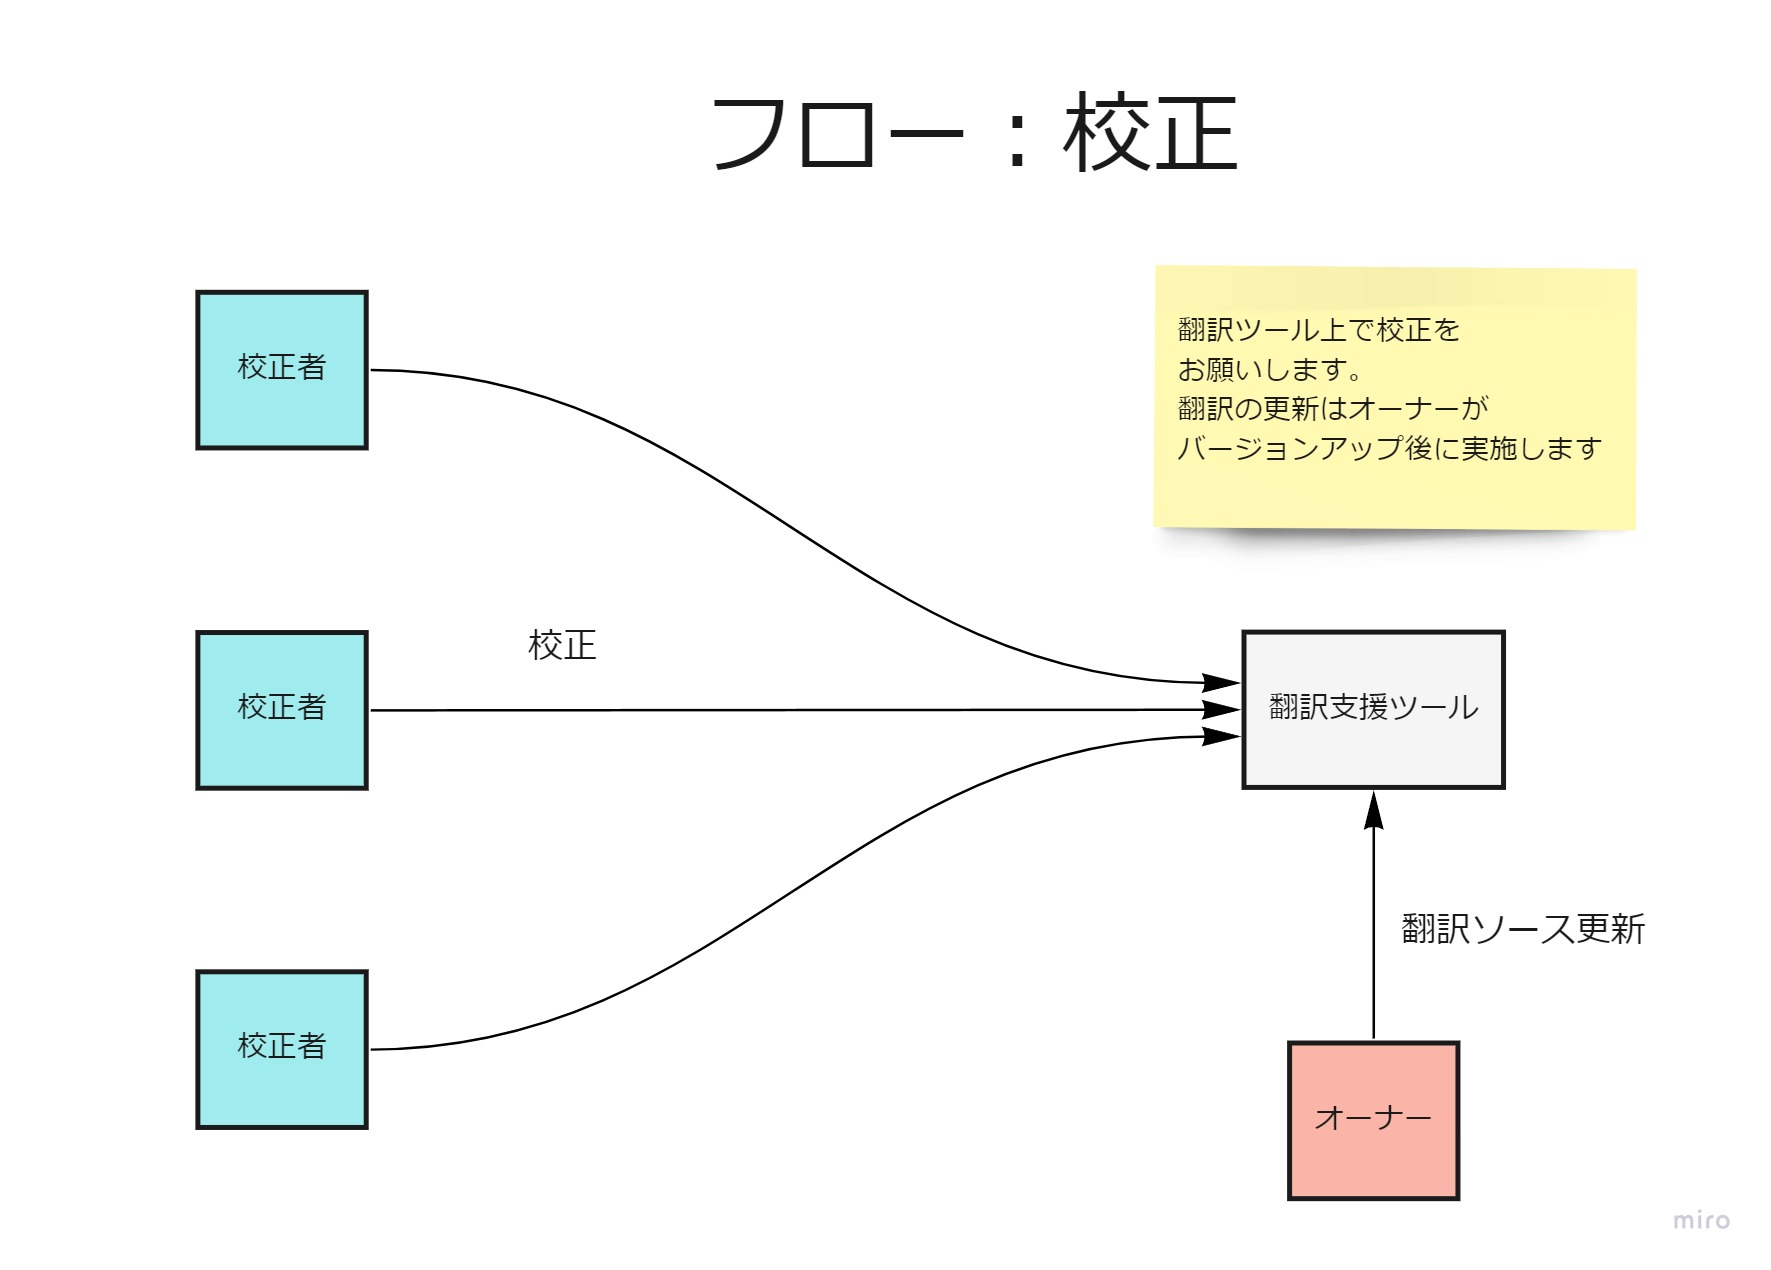
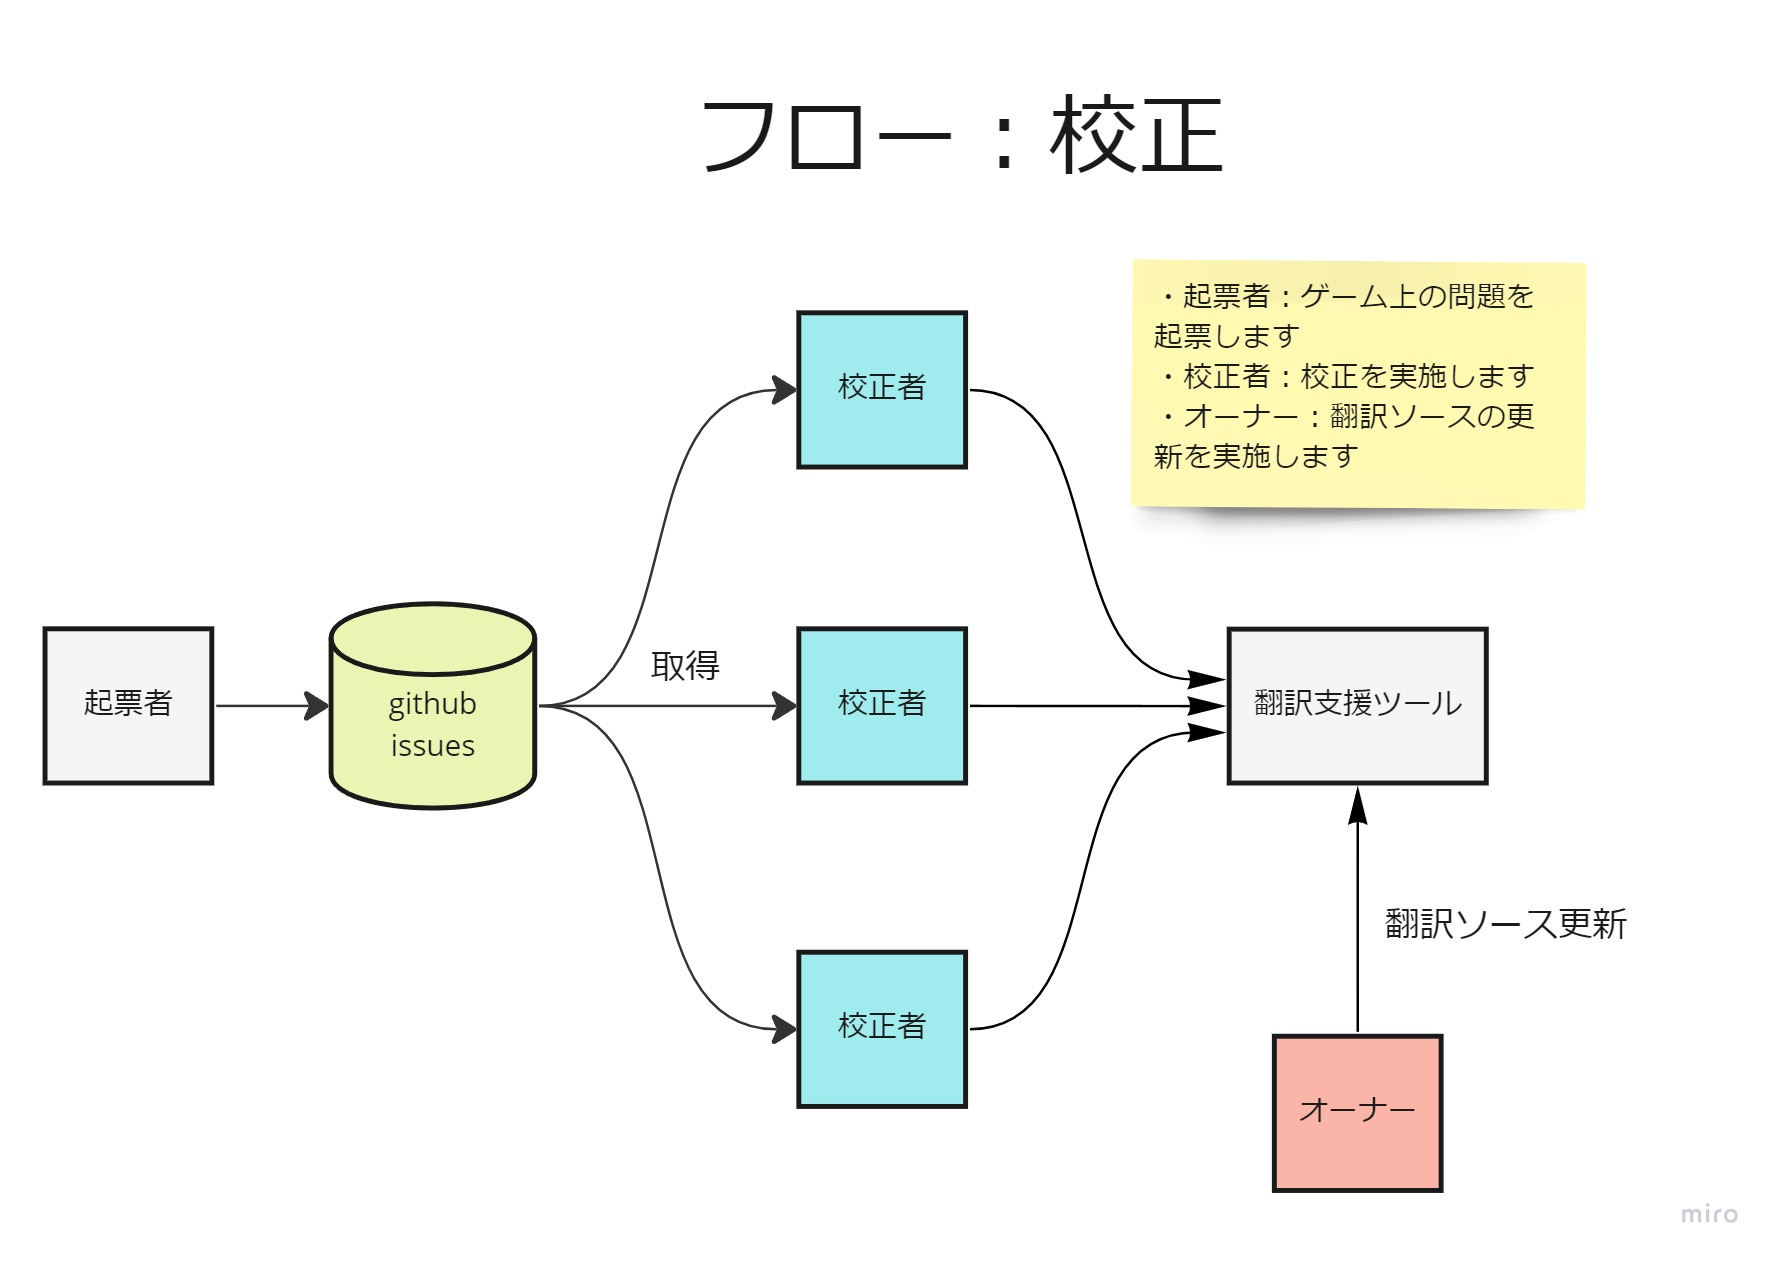
Update readme

diff --git a/README.md b/README.md
@@ -1,20 +1,22 @@
-# はじめにお読みください
+# Victoria3 Japanese Advanced Mod Project
+
+## はじめにお読みください
 
 本プロジェクトの主目的はVictoria 3の翻訳向上とその成果をユーザやParadoxへ還元することです。またサブ目標として寄付を通した翻訳支援を翻訳者へ届ける目的も持ちます。本ページ最後にあるフローについてもご参照ください。
 
-# 寄付の受け付け
+## 寄付の受け付け
 
 翻訳のご支援にご協力ください。[こちら](https://appllio.com/amazon-gift-card-email-type)を参考にしてアマゾンギフト券をご指定の金額だけお送りください。匿名やペンネームにてお送り頂く事もできます。戴いた金額はメンバー間で責任を持って按分させていただきます。
 
 matanki.saito@gmail.com
 
-# コミニティチャンネル
+## コミニティチャンネル
 
 Discordへご参加ください！
 
 https://discord.gg/N3JGCYyh5A
 
-# 問題の報告方法
+## 問題の報告方法
 
 ゲームの翻訳に問題を発見した場合は次に示す通り起票をお願いいたします。
 
@@ -29,8 +31,9 @@ https://discord.gg/N3JGCYyh5A
 6. これで起票が完了です。運営メンバーがIssueを確認し、進捗がありましたら報告させていただきます。
 ![Issue No.4](/.github/images/issue4.png)
 
-# フローについて
+## フローについて
 
 ![Flow No.1](/.github/images/flow1.jpg)
 ![Flow No.2](/.github/images/flow2.jpg)
 ![Flow No.3](/.github/images/flow3.jpg)
+![Flow No.4](/.github/images/flow4.jpg)
